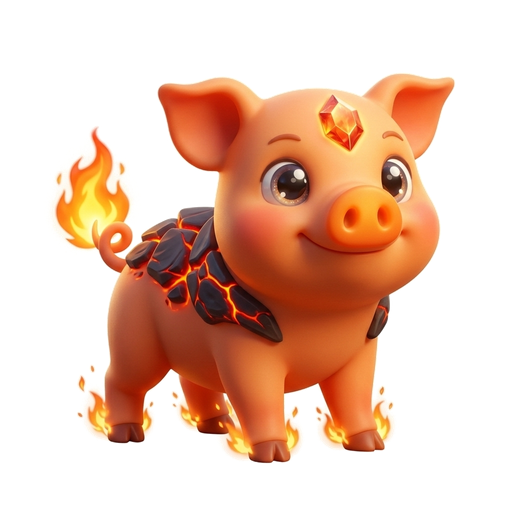
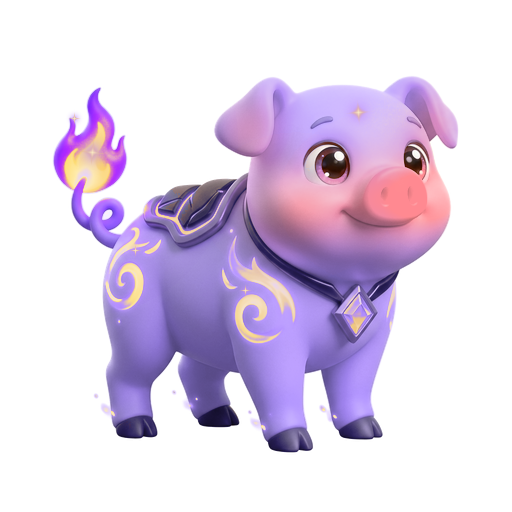
style(web(前端)): 宠物积分猪和鼠的系列对调，猪的形态重新设计

diff --git a/apps/web/components/semester-reports/ReportPetView.tsx b/apps/web/components/semester-reports/ReportPetView.tsx
@@ -243,12 +243,12 @@ export const petOptions: PetOption[] = [
   {
     id: "lava-pig",
     name: "熔宝豚",
-    family: "焰岩系",
-    tone: "from-orange-50 to-amber-100",
-    badge: "bg-orange-100 text-orange-700",
+    family: "星辉系",
+    tone: "from-violet-50 to-indigo-100",
+    badge: "bg-violet-100 text-violet-700",
     evolutions: ["熔火小猪", "炽炎宝豚", "金焰战甲豕", "煌炎镇岳神豕"],
     description:
-      "背负熔岩宝甲的敦厚小猪，如储蓄罐般记录每次努力，不畏艰难挫折，越是遇到难题越能燃起炽金熔岩的勇气之火。"
+      "背负星辉宝甲的敦厚小猪，如储蓄罐般记录每次努力，不畏艰难挫折，越是遇到难题越能点亮璀璨星芒的勇气之光。"
   },
   {
     id: "tide-dragon",
@@ -378,11 +378,11 @@ export const petOptions: PetOption[] = [
   {
     id: "starlight-mouse",
     name: "星点鼠",
-    family: "星辉系",
-    tone: "from-violet-50 to-indigo-100",
-    badge: "bg-violet-100 text-violet-700",
+    family: "焰岩系",
+    tone: "from-orange-50 to-amber-100",
+    badge: "bg-orange-100 text-orange-700",
     evolutions: ["星点鼠", "追星鼠", "星纹灵鼠", "星河光尾鼠"],
-    description: "圆耳朵的小老鼠总能发现别人没留意的细节。每发现一件新事，它的尾巴就会亮起一颗小星星。"
+    description: "圆耳朵的小老鼠总能发现别人没留意的细节。每发现一件新事，它的尾巴就会燃起一朵温暖的小火苗。"
   }
 ];
 

diff --git a/apps/web/components/semester-reports/ReportPetView.spec.tsx b/apps/web/components/semester-reports/ReportPetView.spec.tsx
@@ -50,7 +50,8 @@ describe("PetSprite", () => {
     "vine-snake",
     "ember-monkey",
     "wave-elephant",
-    "starlight-mouse"
+    "starlight-mouse",
+    "lava-pig"
   ])("serves all four transparent 512 px forms for %s", petId => {
     const pet = petOptions.find(option => option.id === petId)!;
     const sprites = [petId, `${petId}-2`, `${petId}-3`, `${petId}-4`];
@@ -74,7 +75,8 @@ describe("PetSprite", () => {
     ["vine-snake", "萌芽系"],
     ["ember-monkey", "焰岩系"],
     ["wave-elephant", "潮汐系"],
-    ["starlight-mouse", "星辉系"]
+    ["starlight-mouse", "焰岩系"],
+    ["lava-pig", "星辉系"]
   ])("lists %s in %s", (petId, family) => {
     expect(petOptions.find(pet => pet.id === petId)?.family).toBe(family);
   });

diff --git a/docs/pet-points.md b/docs/pet-points.md
@@ -59,7 +59,8 @@ Web 在加载名册和积分总览时按学生 ID 与同班学号去重，保留
 | 萌芽系 | 嫩芽蛇 | `vine-snake` | 嫩芽蛇、卷藤蛇、花叶灵蛇、碧藤花冠蛇 |
 | 焰岩系 | 火苗猴 | `ember-monkey` | 火苗猴、暖火猴、金焰灵猴、晨光焰尾猴 |
 | 潮汐系 | 水花象 | `wave-elephant` | 水花象、踏浪象、碧波灵象、潮光水环象 |
-| 星辉系 | 星点鼠 | `starlight-mouse` | 星点鼠、追星鼠、星纹灵鼠、星河光尾鼠 |
+| 焰岩系 | 星点鼠 | `starlight-mouse` | 星点鼠、追星鼠、星纹灵鼠、星河光尾鼠 |
+| 星辉系 | 熔宝豚 | `lava-pig` | 熔火小猪、炽炎宝豚、金焰战甲豕、煌炎镇岳神豕 |
 
 四系各增一只，图鉴共 39 只，系列数量依次为 10、10、10、9。立绘沿用四阶 3D 造型与 512 × 512 RGBA PNG，等级到素材的映射及宠物蛋渲染规则复用现有实现。
 
